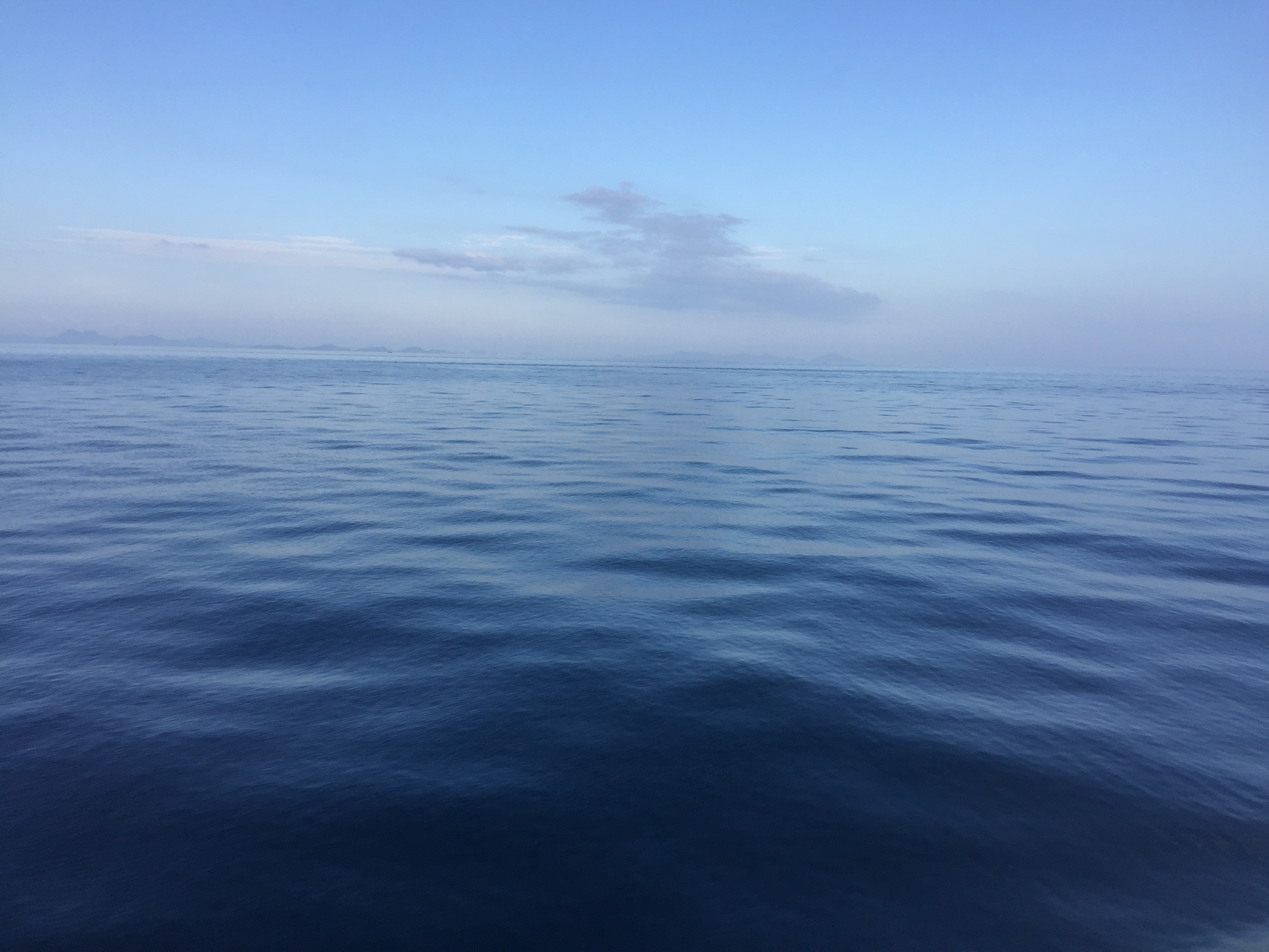
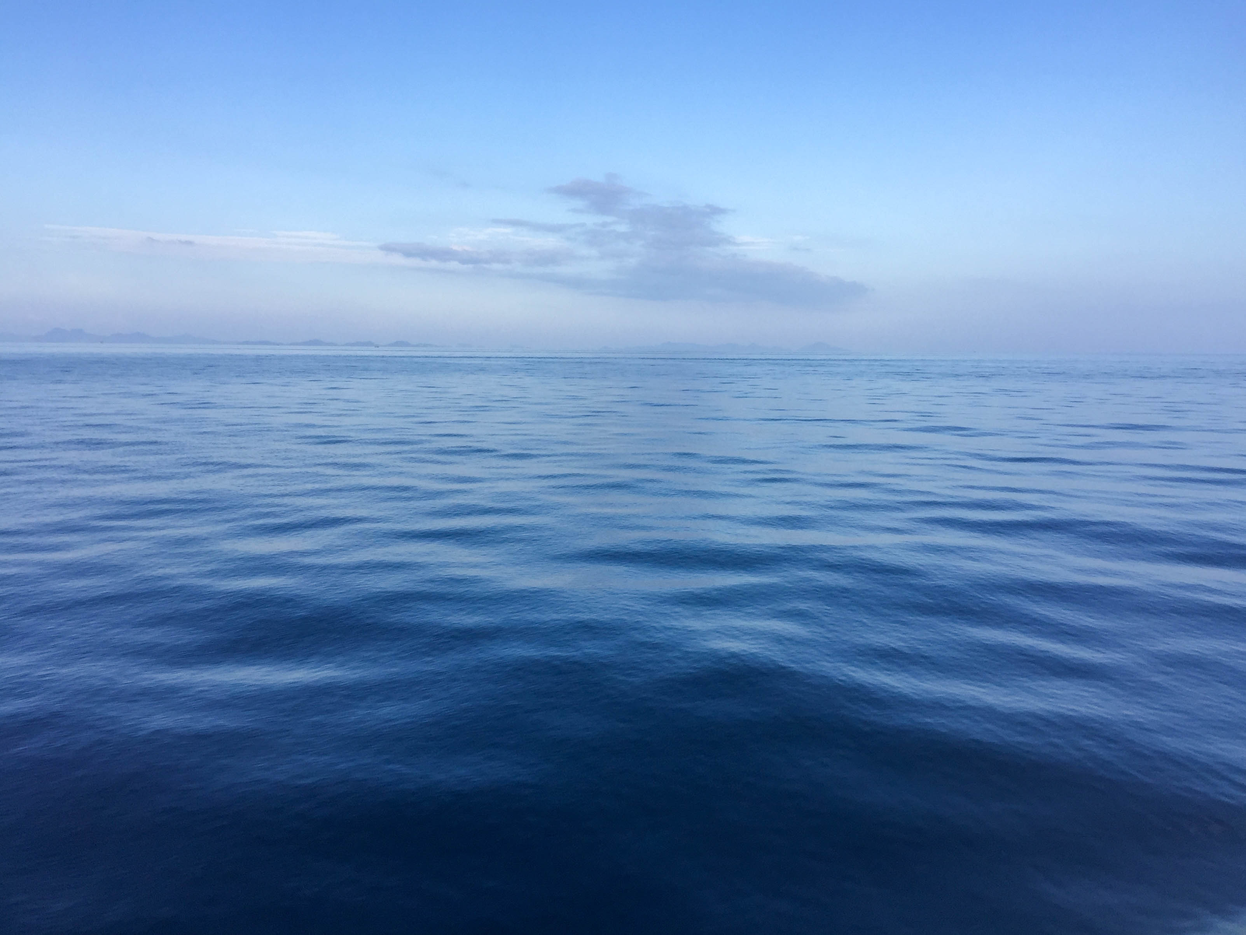
更新主页背景图片
- 更新 hero-bg-1.jpg 和 hero-bg-3.jpg 背景图片
- 新增 hero-bg-4.jpg 替换原 hero-bg-2.jpg
- 更新CSS版本号为v=2025080203以清除缓存
- 确保新背景图片正确加载

🤖 Generated with [Claude Code](https://claude.ai/code)

diff --git a/style.css b/style.css
@@ -196,15 +196,15 @@ body {
 }
 
 .hero-bg-image:nth-child(1) {
-    background-image: url('images/hero-bg-1.jpg?v=2025080202');
+    background-image: url('images/hero-bg-1.jpg?v=2025080203');
 }
 
 .hero-bg-image:nth-child(2) {
-    background-image: url('images/hero-bg-2.jpg?v=2025080202');
+    background-image: url('images/hero-bg-4.jpg?v=2025080203');
 }
 
 .hero-bg-image:nth-child(3) {
-    background-image: url('images/hero-bg-3.jpg?v=2025080202');
+    background-image: url('images/hero-bg-3.jpg?v=2025080203');
 }
 
 /* 半透明遮罩层，确保文字可读性 */
